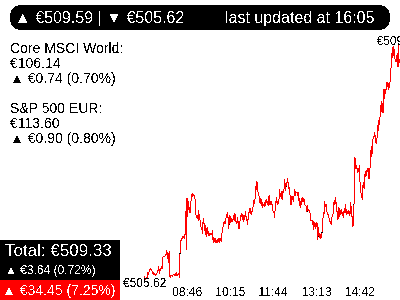
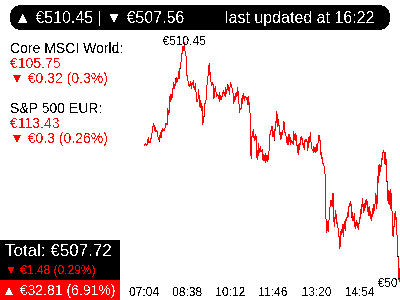
fixed first datapoint bug causing the graph to graphn't
fixed first datapoint bug causing the graph to graphn't

diff --git a/src/ls.js b/src/ls.js
@@ -61,11 +61,12 @@ class LsClient {
     }
 
     interpolateMissingData(data, ids) {
-        // Iterate through all the ids to ensure each timestamp has values for all ids
+        const times = Object.keys(data).sort(); // Sort timestamps
+
         for (const id of ids) {
             let previousValue = null; // To hold the last known value
             let previousTime = null; // To hold the last known timestamp
-            const times = Object.keys(data).sort(); // Sort timestamps
+            let isFirstDataPointHandled = false; // Flag to check if the first data point is handled
 
             for (let i = 0; i < times.length; i++) {
                 const time = times[i];
@@ -73,8 +74,20 @@ class LsClient {
                     // Current value exists, set it as the new previous reference
                     previousValue = data[time][id];
                     previousTime = time;
+                    isFirstDataPointHandled = true; // First data point has been handled
+                } else if (!isFirstDataPointHandled) {
+                    // Handle the first missing data point
+                    for (let j = i; j < times.length; j++) {
+                        if (data[times[j]][id] !== undefined) {
+                            data[time][id] = data[times[j]][id]; // Copy the next valid value
+                            previousValue = data[time][id]; // Update previousValue
+                            previousTime = time; // Update previousTime
+                            isFirstDataPointHandled = true; // Mark that the first data point is handled
+                            break;
+                        }
+                    }
                 } else if (previousValue !== null) {
-                    // Find the next valid value for interpolation
+                    // Previous value exists, find the next value to interpolate
                     let nextValue = null;
                     let nextTime = null;
 
@@ -103,6 +116,7 @@ class LsClient {
 
         return data;
     }
+
 
     calculateHoldings(data, etfs) {
         // Calculate the holdings for each timestamp
